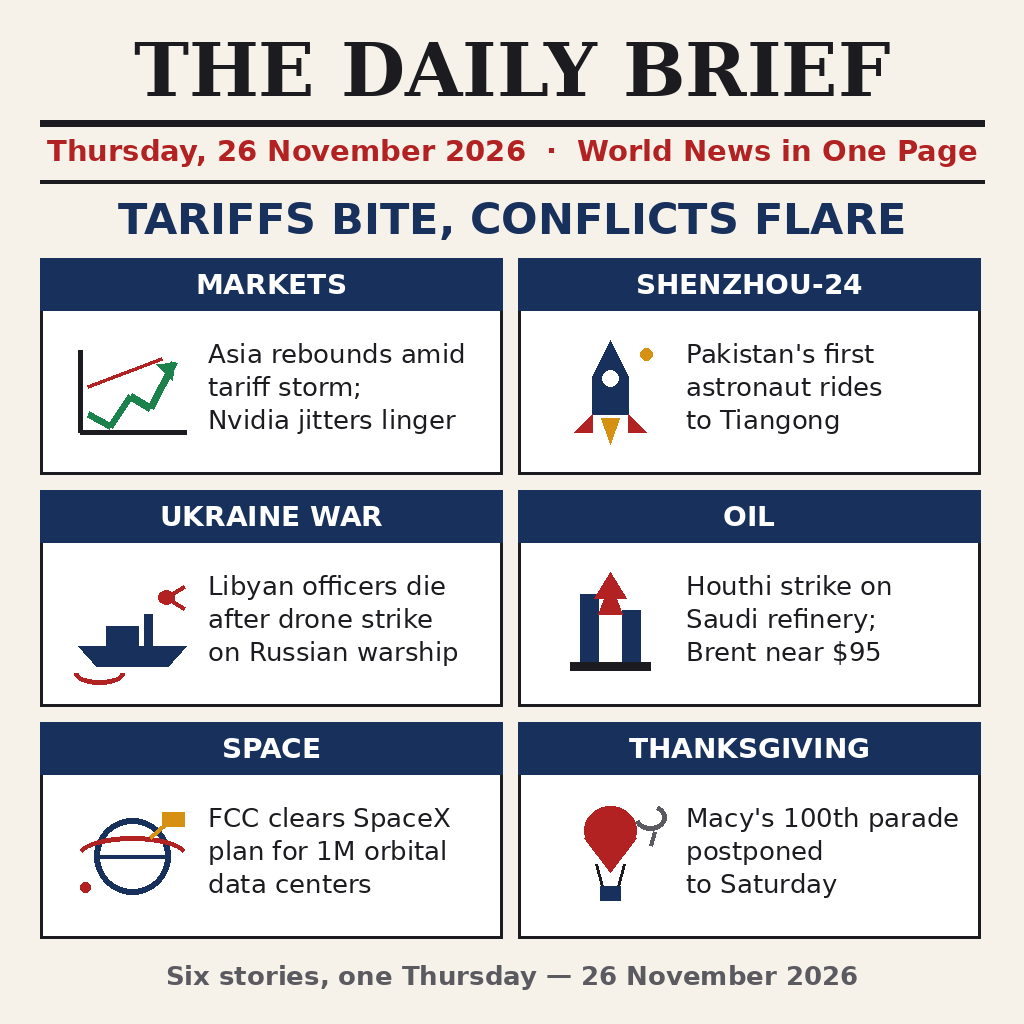
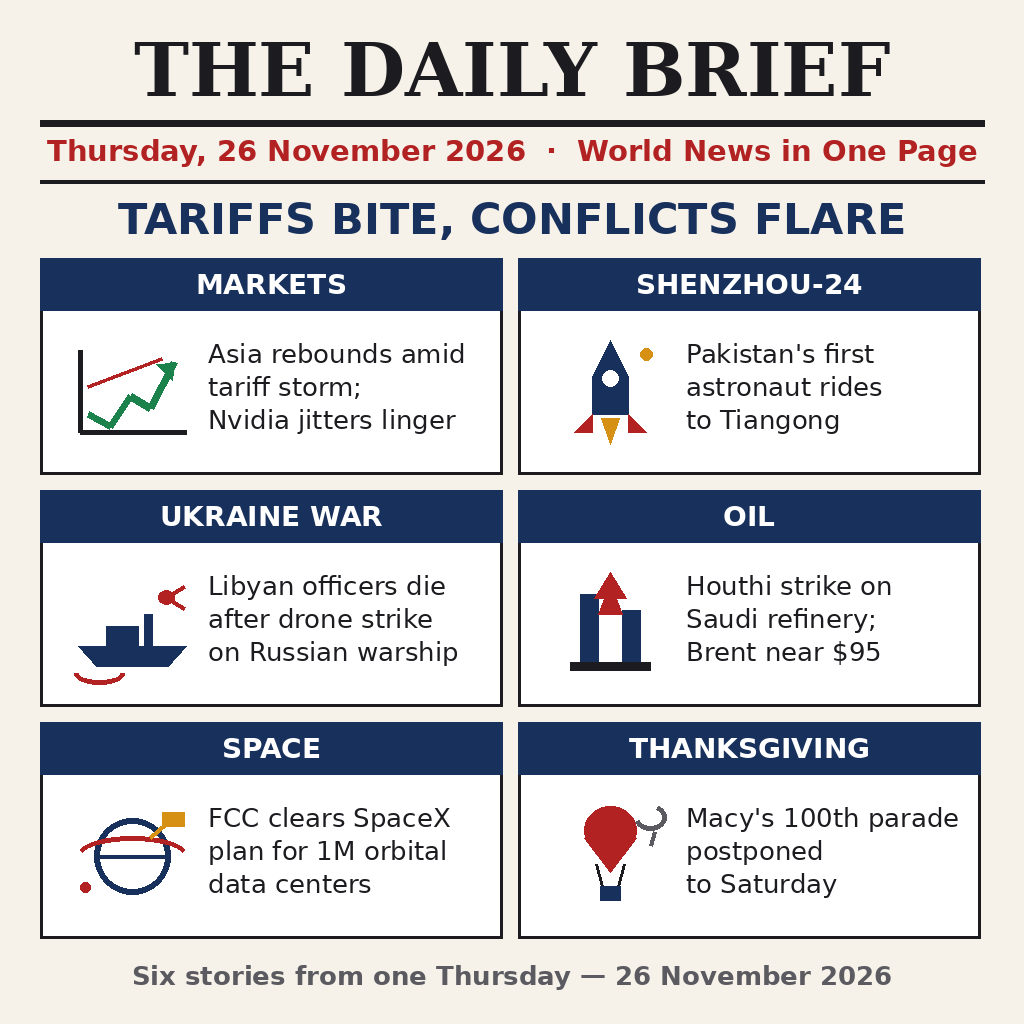
daily-brief-20261126: add make.fun entry

Changed region(s): [[0.125, 0.9375, 0.875, 0.9688]]

diff --git a/main.py b/main.py
@@ -1,25 +1,144 @@
 #!/usr/bin/env python3
-"""Entry for make.fun bounty news-image-20261126.
+"""Front page for Thursday 26 November 2026 (make.fun news-image-20261126).
 
-Writes the shipped front-page image for Thursday 26 November 2026 to
-/output/entry.png (or $MAKEFUN_OUTPUT_DIR/entry.png): a one-page
-summary of the day's world news across six stories — Asia markets
-under US tariffs and Nvidia jitters, China's Shenzhou-24 launch with
-the first Pakistani astronaut, the Ukraine war's spillover to Libya,
-a Houthi strike on a Saudi refinery, the FCC's SpaceX satellite
-authorization, and Macy's postponed Thanksgiving parade. The image
-is drawn by draw.py (Pillow) and shipped as entry.png.
+The program paints a 1024x1024 newspaper front page and saves it as
+entry.png in the output folder. Six stories carry the day: Asian
+markets steadying under fresh US tariffs and Nvidia nerves, China's
+Shenzhou-24 flight with Pakistan's first astronaut, the Ukraine war
+reaching a Russian warship off Libya, a Houthi hit on a Saudi
+refinery, Washington clearing SpaceX's million-satellite plan, and
+storms pushing Macy's Thanksgiving parade to Saturday. When Pillow
+is unavailable the shipped entry.png is copied instead, so the run
+still produces the same picture.
 """
 
 import os
 import shutil
 
+PAGE = 1024
+PAPER = (246, 242, 233)
+INK = (28, 28, 32)
+NAVY = (24, 48, 92)
+RED = (178, 34, 34)
+GREY = (90, 90, 96)
+GREEN = (28, 130, 76)
+AMBER = (214, 144, 20)
+WHITE = (255, 255, 255)
+
+STORIES = [
+    ("MARKETS", ["Asia rebounds amid", "tariff storm;", "Nvidia jitters linger"], "chart"),
+    ("SHENZHOU-24", ["Pakistan's first", "astronaut rides", "to Tiangong"], "rocket"),
+    ("UKRAINE WAR", ["Libyan officers die", "after drone strike", "on Russian warship"], "ship"),
+    ("OIL", ["Houthi strike on", "Saudi refinery;", "Brent near $95"], "oil"),
+    ("SPACE", ["FCC clears SpaceX", "plan for 1M orbital", "data centers"], "sat"),
+    ("THANKSGIVING", ["Macy's 100th parade", "postponed", "to Saturday"], "balloon"),
+]
+
+
+def output_path():
+    folder = os.environ.get("MAKEFUN_OUTPUT_DIR", "/output")
+    os.makedirs(folder, exist_ok=True)
+    return os.path.join(folder, "entry.png")
+
+
+def fallback_copy(target):
+    here = os.path.dirname(os.path.abspath(__file__))
+    shutil.copyfile(os.path.join(here, "entry.png"), target)
+
+
+def paint(target):
+    from PIL import Image, ImageDraw, ImageFont
+
+    serif = "/usr/share/fonts/truetype/dejavu/DejaVuSerif-Bold.ttf"
+    bold = "/usr/share/fonts/truetype/dejavu/DejaVuSans-Bold.ttf"
+    sans = "/usr/share/fonts/truetype/dejavu/DejaVuSans.ttf"
+
+    def face(path, size):
+        return ImageFont.truetype(path, size)
+
+    canvas = Image.new("RGB", (PAGE, PAGE), PAPER)
+    pen = ImageDraw.Draw(canvas)
+
+    def centered(y, words, fnt, colour=INK):
+        left, _, right, _ = pen.textbbox((0, 0), words, font=fnt)
+        pen.text(((PAGE - (right - left)) / 2, y), words, font=fnt, fill=colour)
+
+    centered(26, "THE DAILY BRIEF", face(serif, 74))
+    pen.rectangle([40, 120, PAGE - 40, 126], fill=INK)
+    centered(134, "Thursday, 26 November 2026  ·  World News in One Page", face(bold, 29), RED)
+    pen.rectangle([40, 180, PAGE - 40, 183], fill=INK)
+    centered(194, "TARIFFS BITE, CONFLICTS FLARE", face(bold, 43), NAVY)
+
+    def glyph(kind, cx, cy):
+        if kind == "chart":
+            pen.line([cx - 52, cy + 40, cx - 52, cy - 42], fill=INK, width=5)
+            pen.line([cx - 52, cy + 40, cx + 54, cy + 40], fill=INK, width=5)
+            pen.line([(cx - 44, cy + 22), (cx - 22, cy + 34), (cx - 2, cy + 4),
+                      (cx + 18, cy + 16), (cx + 42, cy - 30)], fill=GREEN, width=7)
+            pen.polygon([(cx + 42, cy - 30), (cx + 24, cy - 28), (cx + 40, cy - 12)], fill=GREEN)
+            pen.line([(cx - 44, cy - 6), (cx + 30, cy - 34)], fill=RED, width=4)
+        elif kind == "rocket":
+            pen.polygon([(cx, cy - 52), (cx + 18, cy - 16), (cx + 18, cy + 22),
+                         (cx - 18, cy + 22), (cx - 18, cy - 16)], fill=NAVY)
+            pen.ellipse([cx - 8, cy - 22, cx + 8, cy - 6], fill=WHITE)
+            pen.polygon([(cx - 18, cy + 22), (cx - 36, cy + 40), (cx - 18, cy + 40)], fill=RED)
+            pen.polygon([(cx + 18, cy + 22), (cx + 36, cy + 40), (cx + 18, cy + 40)], fill=RED)
+            pen.polygon([(cx - 9, cy + 26), (cx + 9, cy + 26), (cx, cy + 52)], fill=AMBER)
+            pen.ellipse([cx + 30, cy - 44, cx + 42, cy - 32], fill=AMBER)
+        elif kind == "ship":
+            pen.polygon([(cx - 54, cy + 22), (cx + 54, cy + 22), (cx + 36, cy + 42),
+                         (cx - 36, cy + 42)], fill=NAVY)
+            pen.rectangle([cx - 26, cy + 2, cx + 6, cy + 22], fill=NAVY)
+            pen.rectangle([cx + 12, cy - 10, cx + 20, cy + 22], fill=NAVY)
+            pen.ellipse([cx + 26, cy - 34, cx + 42, cy - 20], fill=RED)
+            pen.line([cx + 34, cy - 27, cx + 52, cy - 38], fill=RED, width=4)
+            pen.line([cx + 34, cy - 27, cx + 52, cy - 16], fill=RED, width=4)
+            pen.arc([cx - 58, cy + 38, cx - 8, cy + 60], 0, 180, fill=RED, width=5)
+        elif kind == "oil":
+            pen.rectangle([cx - 30, cy - 30, cx - 12, cy + 38], fill=NAVY)
+            pen.rectangle([cx + 12, cy - 14, cx + 30, cy + 38], fill=NAVY)
+            pen.polygon([(cx - 40, cy + 38), (cx + 40, cy + 38), (cx + 40, cy + 46),
+                         (cx - 40, cy + 46)], fill=INK)
+            pen.polygon([(cx, cy - 52), (cx + 16, cy - 26), (cx + 6, cy - 26),
+                         (cx + 12, cy - 10), (cx - 12, cy - 10), (cx - 6, cy - 26),
+                         (cx - 16, cy - 26)], fill=RED)
+        elif kind == "sat":
+            pen.ellipse([cx - 38, cy - 38, cx + 38, cy + 38], outline=NAVY, width=6)
+            pen.line([cx - 38, cy, cx + 38, cy], fill=NAVY, width=4)
+            pen.arc([cx - 56, cy - 20, cx + 56, cy + 20], 200, 340, fill=RED, width=5)
+            pen.rectangle([cx + 30, cy - 44, cx + 52, cy - 30], fill=AMBER)
+            pen.line([cx + 34, cy - 32, cx + 18, cy - 18], fill=AMBER, width=4)
+            pen.ellipse([cx - 52, cy + 26, cx - 42, cy + 36], fill=RED)
+        elif kind == "balloon":
+            pen.ellipse([cx - 26, cy - 50, cx + 26, cy - 2], fill=RED)
+            pen.polygon([(cx - 26, cy - 18), (cx + 26, cy - 18), (cx, cy + 16)], fill=RED)
+            pen.line([cx - 14, cy + 8, cx - 8, cy + 30], fill=INK, width=3)
+            pen.line([cx + 14, cy + 8, cx + 8, cy + 30], fill=INK, width=3)
+            pen.rectangle([cx - 10, cy + 30, cx + 10, cy + 44], fill=NAVY)
+            pen.arc([cx + 24, cy - 52, cx + 56, cy - 26], 300, 160, fill=GREY, width=5)
+            pen.line([cx + 44, cy - 24, cx + 40, cy - 10], fill=GREY, width=4)
+
+    box_w, box_h, gap = 462, 216, 16
+    for slot, (heading, lines, kind) in enumerate(STORIES):
+        x = 40 + (slot % 2) * (box_w + gap)
+        y = 258 + (slot // 2) * (box_h + gap)
+        pen.rectangle([x, y, x + box_w, y + box_h], fill=WHITE, outline=INK, width=3)
+        pen.rectangle([x, y, x + box_w, y + 52], fill=NAVY)
+        left, _, right, _ = pen.textbbox((0, 0), heading, font=face(bold, 28))
+        pen.text((x + (box_w - (right - left)) / 2, y + 10), heading, font=face(bold, 28), fill=WHITE)
+        glyph(kind, x + 92, y + 134)
+        pen.multiline_text((x + 168, y + 80), "\n".join(lines), font=face(sans, 26), fill=INK, spacing=8)
+
+    centered(960, "Six stories from one Thursday — 26 November 2026", face(bold, 26), GREY)
+    canvas.save(target, optimize=True)
+
 
 def main():
-    here = os.path.dirname(os.path.abspath(__file__))
-    out_dir = os.environ.get("MAKEFUN_OUTPUT_DIR", "/output")
-    os.makedirs(out_dir, exist_ok=True)
-    shutil.copyfile(os.path.join(here, "entry.png"), os.path.join(out_dir, "entry.png"))
+    target = output_path()
+    try:
+        paint(target)
+    except Exception:
+        fallback_copy(target)
 
 
 if __name__ == "__main__":
